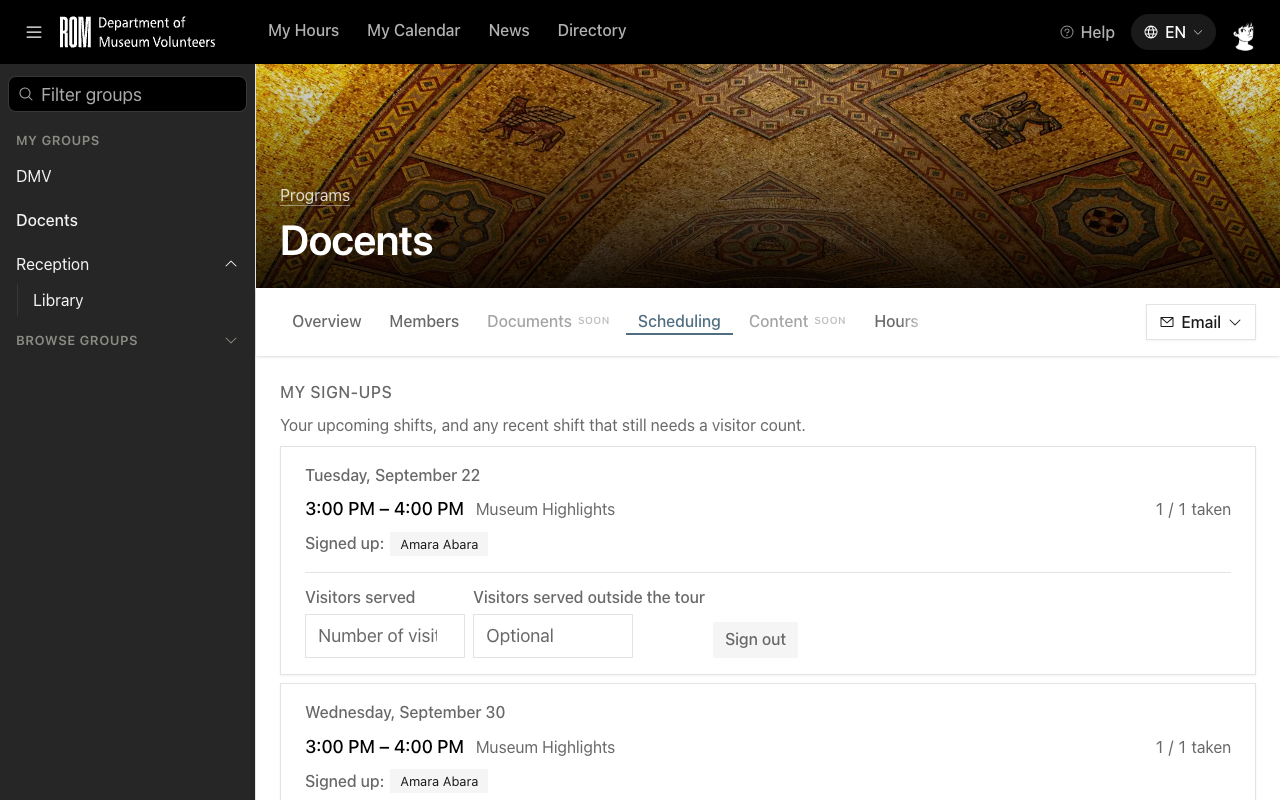
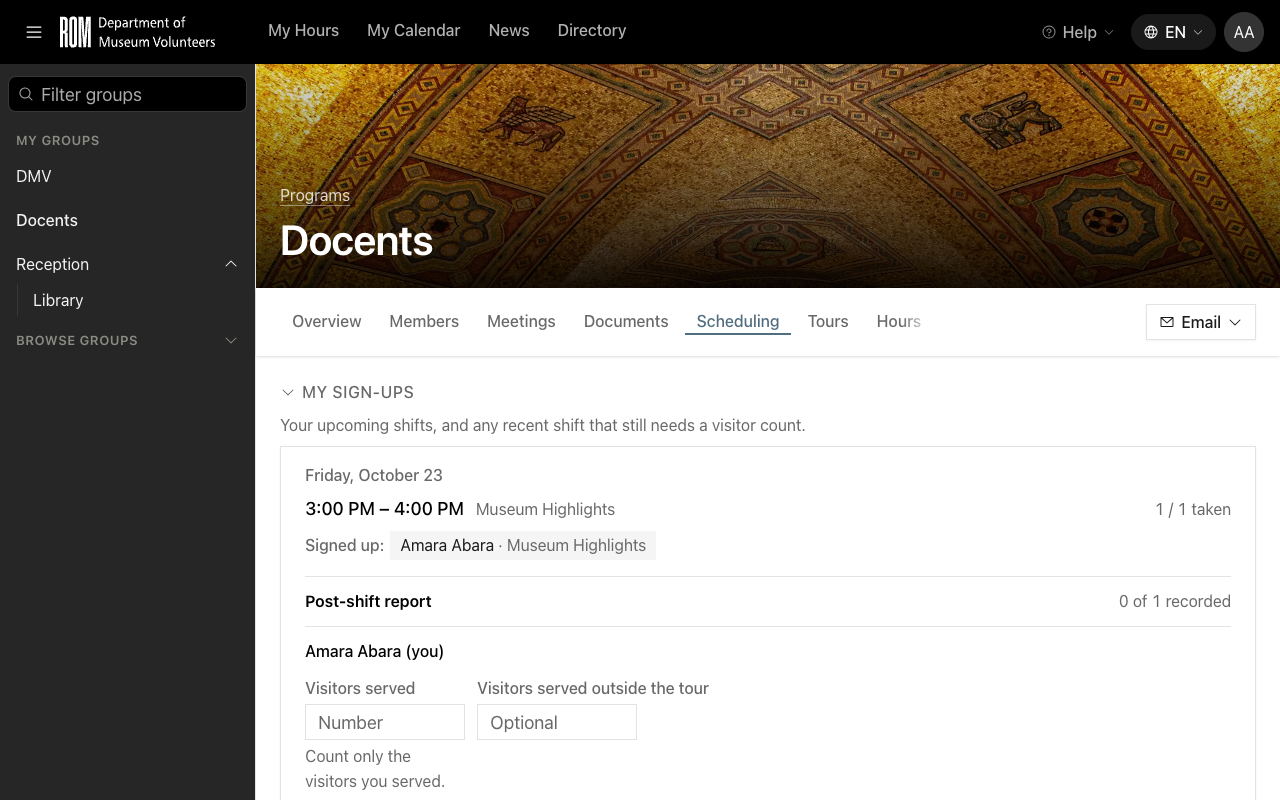
Let a Member collapse the My sign-ups panel (Feedback item 83) (#832)
## Summary

Closes #830 (Feedback item 83). On a phone, two sign-ups fill most of
the screen, so a Member must scroll past them to reach the Schedule.

- The **My sign-ups** heading is now a toggle. It closes and opens the
panel, and the heading stays visible when the panel is closed.
- The panel opens on every page load. The state does not persist.
- The toggle is a button with `aria-expanded` and an EN/FR label
(`group.scheduling_panel.mine.toggle`). It uses the shadcn
`Collapsible`, as the Tours list does (#828).
- The panel has no scroll box of its own. The page keeps one scroll.
- A closed panel unmounts its ShiftCards, so a visitor count you typed
but did not save is lost if you close the panel. The Tours list behaves
the same way.

Checks: `vue-tsc`, `vite build`, and Pest (2327 passed). I also tested
the toggle in a browser: it closes and opens the panel, `aria-expanded`
changes, and the French label shows.

## Help article

- [x] Help article added (or updated) for this change.

Added a tip to "The shifts you still owe a number for" and a line to
"The tabs on a Group page" (EN and FR). Reshot
`shifts-you-owe-a-number-for/01.png` and `group-page-tabs/04.png`,
because the heading now shows a caret.

diff --git a/resources/js/components/GroupScheduling.vue b/resources/js/components/GroupScheduling.vue
@@ -37,6 +37,7 @@ import {
 import { Badge } from '@/components/ui/badge';
 import { Button } from '@/components/ui/button';
 import { Card, CardContent, CardHeader, CardTitle } from '@/components/ui/card';
+import { Collapsible, CollapsibleContent, CollapsibleTrigger } from '@/components/ui/collapsible';
 import { Dialog, DialogContent, DialogHeader, DialogTitle } from '@/components/ui/dialog';
 import { Input } from '@/components/ui/input';
 import { Label } from '@/components/ui/label';
@@ -61,6 +62,7 @@ import {
     PhArrowLeft,
     PhBinoculars,
     PhCalendarBlank,
+    PhCaretRight,
     PhEye,
     PhEyeSlash,
     PhListBullets,
@@ -1022,28 +1024,47 @@ const runBulkAssign = (action: 'place' | 'remove') => {
              (not empty) when there is nothing to show, so it renders only when the list is
              non-empty. Each Shift is the shared ShiftCard, so a number is filed straight from
              here through the same seam as the Agenda. -->
-        <section v-if="mine.length" class="flex flex-col gap-2" :aria-label="trans('group.scheduling_panel.mine.aria_label')">
-            <h3 class="text-muted-foreground text-sm font-medium tracking-wide uppercase">{{ trans('group.scheduling_panel.mine.heading') }}</h3>
-            <p class="text-muted-foreground text-sm">{{ trans('group.scheduling_panel.mine.subtitle') }}</p>
-            <ShiftCard
-                v-for="shift in mine"
-                :key="shift.id"
-                :shift="shift"
-                show-date
-                :collects-visitor-count="collectsVisitorCount"
-                :collects-extra-interactions="collectsExtraInteractions"
-                :collects-visitor-provenance="collectsVisitorProvenance"
-                @take="take"
-                @drop="drop"
-                @substitute="openSubstitute"
-                @assign="openAssign"
-                @remove="removeSeat"
-                @change-tour="openChangeTour"
-                @edit="openShiftEdit"
-                @delete="destroyShift"
-                @record="record"
-            />
-        </section>
+        <!-- The panel collapses (#830) so a phone reaches the Schedule without scrolling past it.
+             It opens on every load, and the heading is the toggle. No inner scroll box: the
+             page keeps its one scroll. -->
+        <Collapsible
+            v-if="mine.length"
+            as="section"
+            default-open
+            class="group/mine flex flex-col gap-2"
+            :aria-label="trans('group.scheduling_panel.mine.aria_label')"
+        >
+            <h3 class="text-muted-foreground text-sm font-medium tracking-wide uppercase">
+                <CollapsibleTrigger
+                    class="hover:text-foreground focus-visible:ring-ring flex items-center gap-1.5 text-left uppercase transition-colors focus-visible:ring-2 focus-visible:outline-none pointer-coarse:min-h-11"
+                    :aria-label="trans('group.scheduling_panel.mine.toggle')"
+                >
+                    <PhCaretRight class="size-4 shrink-0 transition-transform group-data-[state=open]/mine:rotate-90" aria-hidden="true" />
+                    {{ trans('group.scheduling_panel.mine.heading') }}
+                </CollapsibleTrigger>
+            </h3>
+            <CollapsibleContent class="-mx-1 -mb-1 flex flex-col gap-2 px-1 pb-1">
+                <p class="text-muted-foreground text-sm">{{ trans('group.scheduling_panel.mine.subtitle') }}</p>
+                <ShiftCard
+                    v-for="shift in mine"
+                    :key="shift.id"
+                    :shift="shift"
+                    show-date
+                    :collects-visitor-count="collectsVisitorCount"
+                    :collects-extra-interactions="collectsExtraInteractions"
+                    :collects-visitor-provenance="collectsVisitorProvenance"
+                    @take="take"
+                    @drop="drop"
+                    @substitute="openSubstitute"
+                    @assign="openAssign"
+                    @remove="removeSeat"
+                    @change-tour="openChangeTour"
+                    @edit="openShiftEdit"
+                    @delete="destroyShift"
+                    @record="record"
+                />
+            </CollapsibleContent>
+        </Collapsible>
 
         <div v-if="(canCreate || bookingOptions) && !scheduling.open" class="flex flex-wrap justify-end gap-2">
             <Button

diff --git a/lang/fr/group.php b/lang/fr/group.php
@@ -697,6 +697,7 @@ return [
         'mine' => [
             'aria_label' => 'Mes inscriptions',
             'heading' => 'Mes inscriptions',
+            'toggle' => 'Afficher ou masquer Mes inscriptions',
             'subtitle' => 'Vos quarts à venir, et tout quart récent qui attend encore un nombre de visiteur·euses.',
         ],
         // Bascule de vue (#360, ADR-0021 §7) — la ou le lecteur choisit Agenda ou

diff --git a/lang/en/group.php b/lang/en/group.php
@@ -709,6 +709,7 @@ return [
         'mine' => [
             'aria_label' => 'My sign-ups',
             'heading' => 'My sign-ups',
+            'toggle' => 'Show or hide My sign-ups',
             'subtitle' => 'Your upcoming shifts, and any recent shift that still needs a visitor count.',
         ],
         // View toggle (#360, ADR-0021 §7) — the reader chooses Agenda or Calendar; the

diff --git a/resources/help/fr/group-page-tabs.md b/resources/help/fr/group-page-tabs.md
@@ -22,7 +22,7 @@ Les réunions du groupe, avec leurs ordres du jour et leurs procès-verbaux. Cet
 
 ## Horaire
 
-Les horaires et les quarts du groupe. Inscrivez-vous à un quart ici. Cet onglet apparaît seulement quand le groupe gère un horaire.
+Les horaires et les quarts du groupe. Inscrivez-vous à un quart ici. Cet onglet apparaît seulement quand le groupe gère un horaire. Sélectionnez le titre **Mes inscriptions** pour fermer ou ouvrir ce panneau.
 
 ![L'onglet Horaire : le panneau Mes inscriptions en haut, avec vos propres quarts](04.png)
 

diff --git a/resources/help/en/group-page-tabs.md b/resources/help/en/group-page-tabs.md
@@ -22,7 +22,7 @@ The Group's meetings, with their agendas and minutes. This tab shows only when t
 
 ## Scheduling
 
-The Group's schedules and shifts. Sign up for a shift here. This tab shows only when the Group runs scheduling.
+The Group's schedules and shifts. Sign up for a shift here. This tab shows only when the Group runs scheduling. Select the **My sign-ups** heading to close or open that panel.
 
 ![The Scheduling tab: the My sign-ups panel at the top, with your own shifts](04.png)
 

diff --git a/resources/help/fr/shifts-you-owe-a-number-for.md b/resources/help/fr/shifts-you-owe-a-number-for.md
@@ -12,6 +12,8 @@ Trouvez les quarts passés qui attendent encore un nombre de visiteur·euses de 
 
 Un quart à une date après aujourd'hui n'a pas encore de section **Rapport après le quart**.
 
+> **Astuce :** Sélectionnez le titre **Mes inscriptions** pour fermer le panneau. Sélectionnez-le de nouveau pour ouvrir le panneau.
+
 ## Noter le nombre
 
 1. Allez à la section **Rapport après le quart** du quart. Votre formulaire y est déjà ouvert.

diff --git a/resources/help/en/shifts-you-owe-a-number-for.md b/resources/help/en/shifts-you-owe-a-number-for.md
@@ -12,6 +12,8 @@ Find the past shifts that still need a visitor count from you.
 
 A shift on a date after today has no **Post-shift report** section yet.
 
+> **Tip:** Select the **My sign-ups** heading to close the panel. Select it again to open the panel.
+
 ## Record the count
 
 1. Go to the shift's **Post-shift report** section. Your form is already open there.
